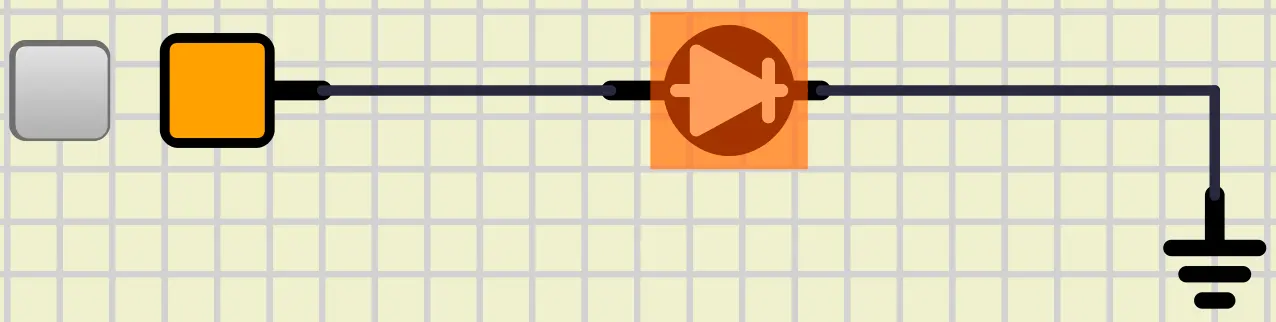
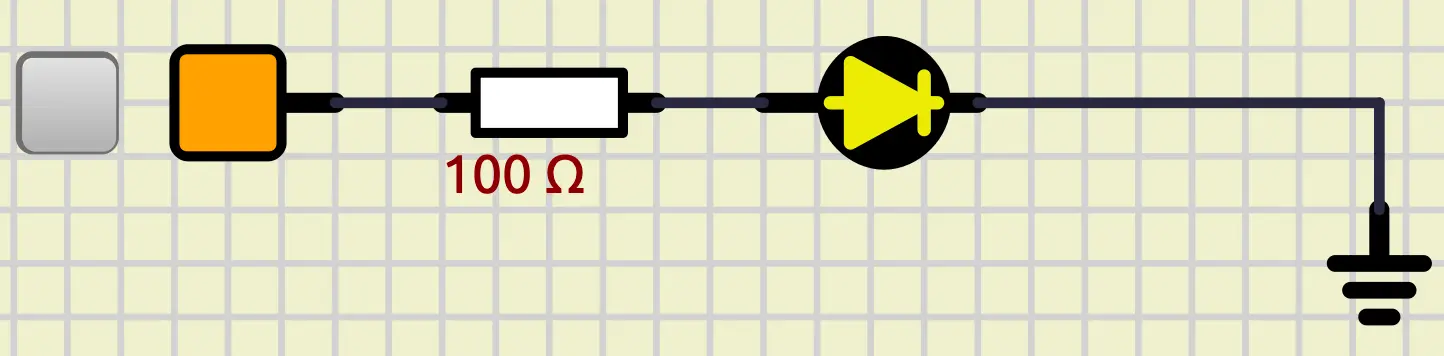
Add a resistor to LED

diff --git a/docs/0-intro/index.md b/docs/0-intro/index.md
@@ -65,11 +65,13 @@ At first, let's light up an **LED** in **SimulIDE**.
 To do so, we can follow these steps:
 
 - Open up **SimulIDE**.
-- In the left panel, drag an **LED** (Outputs/Leds/LED) and put it on the board.
-- In the left panel, drag a **Fixed Voltage** (Sources/Fixed voltage) and put it on the board.
-- In the left panel, drag a **Ground** (Sources/Ground) and put it on the board.
-- Connect the **Fixed Voltage** to the **anode** of **LED** (the longest pin).
-- Connect the **Ground** to the **cathode** of **LED** (the shortest pin).
+- On the left panel, drag an **LED** (Outputs/Leds/LED) and put it on the board.
+- On the left panel, drag a **Fixed Voltage** (Sources/Fixed voltage) and put it on the board.
+- On the left panel, drag a **Ground** (Sources/Ground) and put it on the board.
+- On the left panel, drag a **Resistor** (Passive/Resistors/Resistor) and put it on the board.
+- Connect the **Fixed Voltage** to one of the pins of the **Resistor**.
+- Connect the other pin of the **Resistor** to the **anode** (the longest pin) of **LED**.
+- Connect the **Ground** to the **cathode** (the shortest pin) of **LED**.
 - Click on the **Fixed Voltage** to turn it on.
 - Press **Start simulation** in the top panel.
 
@@ -87,9 +89,9 @@ Now, let's put an **Arduino Uno** on the board and control the state of
 To do so, we can follow these steps:
 
 - In the left panel, drag an **Arduino UNO** (Micro/Arduino/Uno) and put it on the board.
-- Disconnect the **Fixed voltage** from the anode of the **LED** and connect it to **RST**.
+- Disconnect the **Fixed voltage** from the **Resistor** and connect it to **RST**.
 - Let the **Fixed voltage** to be on.
-- Connect the anode of the **LED** to the **pin 13**.
+- Connect pin of **Resistor** which was connected to the anode of the **LED**, to the **pin 13**.
 
 You should have something like this:
 
